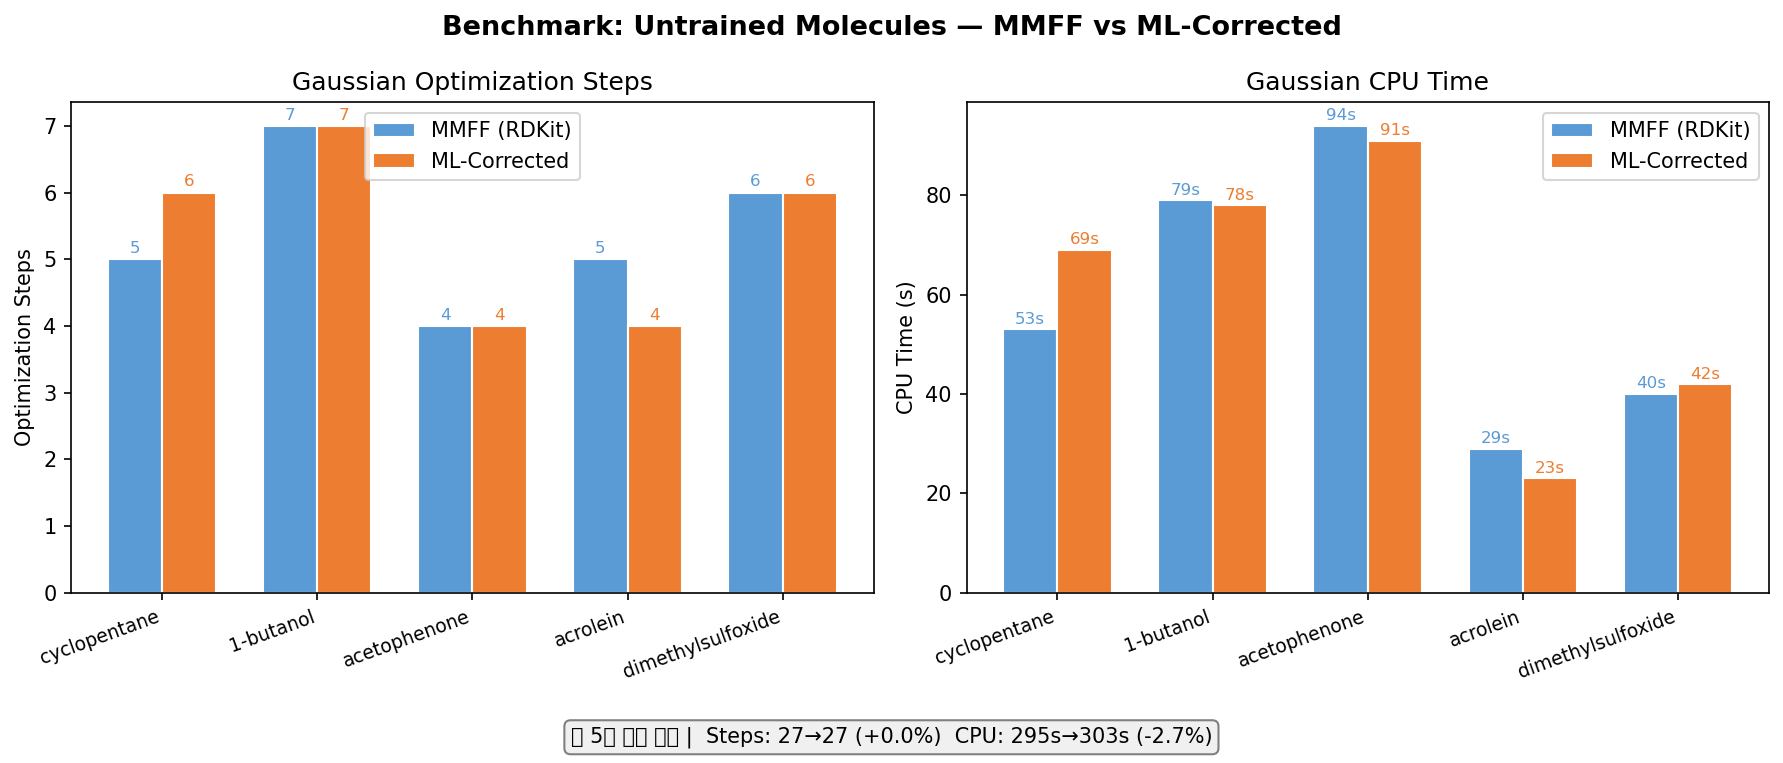
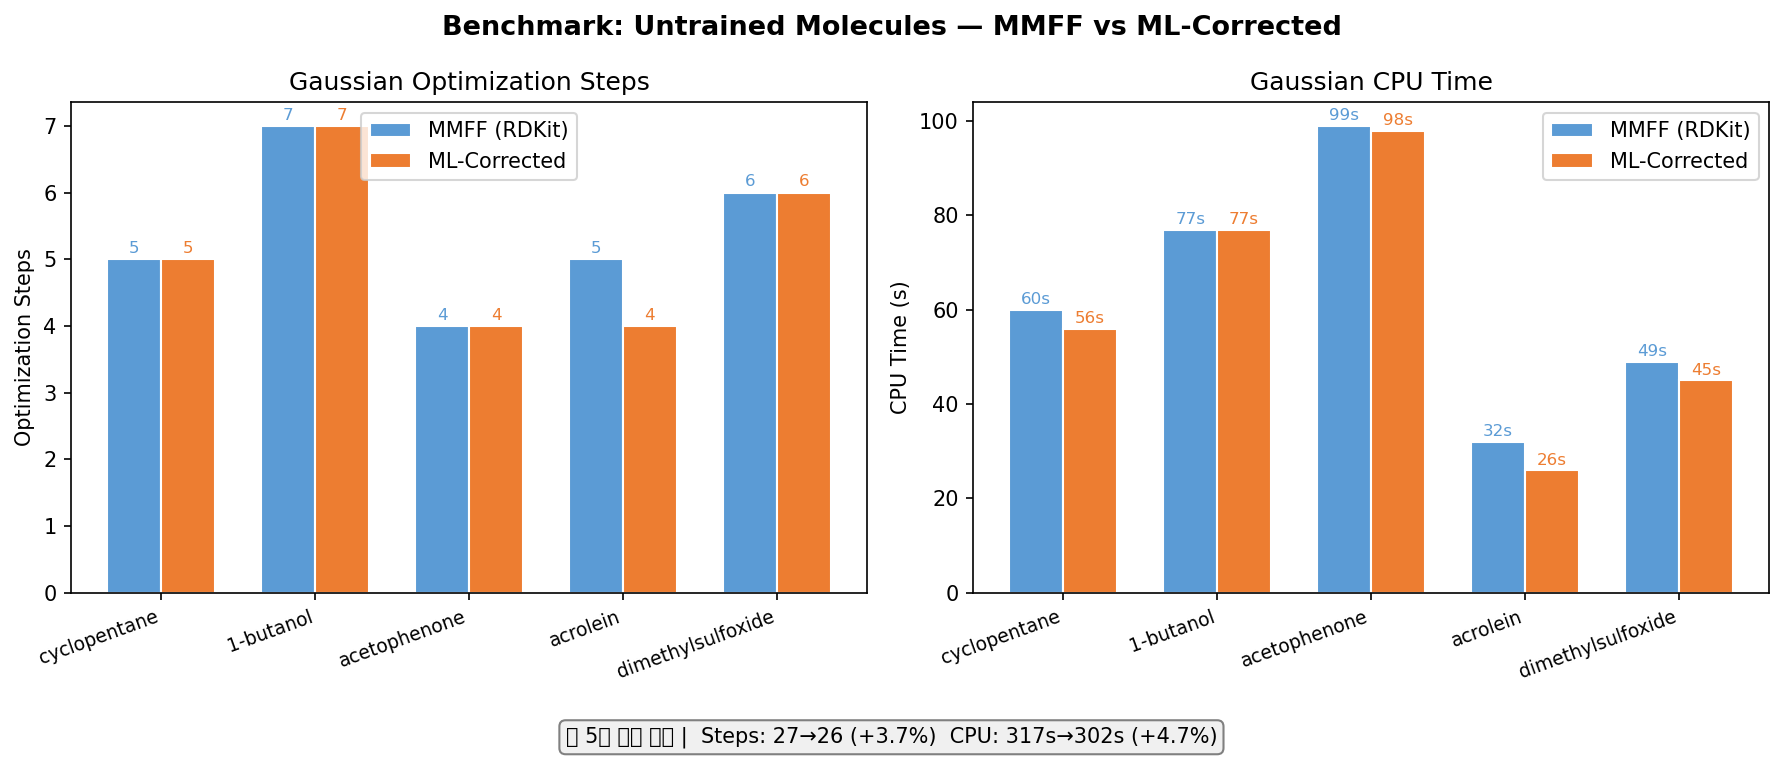
docs: update benchmark results with delta model — cyclopentane degradation resolved
- benchmark_new_mols re-run with delta mode model
- cyclopentane: steps 5→5 (0%), previously 5→6 (−1, worsened) with absolute model
- acrolein: maintains +20% step / +19% CPU improvement
- DMSO, cyclopentane: CPU time improvement (+8%, +7%)
- README: update benchmark table with CPU column, note delta model improvement

diff --git a/README.md b/README.md
@@ -180,13 +180,17 @@ Delta 모드에서 `mmff_length` 중요도가 81.3%로 낮아지고, `bond_order
 
 ![New Molecules Benchmark](figures/07_benchmark_new_mols.png)
 
-| 분자 | 작용기 | MMFF steps | ML steps | 변화 |
-|------|--------|-----------|---------|------|
-| cyclopentane | 5원 고리 | 5 | 6 | −1 (악화) |
-| 1-butanol | 긴 사슬 알코올 | 7 | 7 | 0 |
-| acetophenone | 방향족 케톤 | 4 | 4 | 0 |
-| acrolein | 공액 카보닐 | 5 | **4** | **+20%** |
-| dimethylsulfoxide | S=O 결합 | 6 | 6 | 0 |
+Delta 모드 모델로 재측정 (이전 absolute 모델 결과와 비교):
+
+| 분자 | 작용기 | MMFF steps | ML steps | 스텝 변화 | CPU 변화 |
+|------|--------|-----------|---------|---------|---------|
+| cyclopentane | 5원 고리 | 5 | 5 | 0 *(이전: −1 악화)* | **+7%** |
+| 1-butanol | 긴 사슬 알코올 | 7 | 7 | 0 | 0% |
+| acetophenone | 방향족 케톤 | 4 | 4 | 0 | +1% |
+| acrolein | 공액 카보닐 | 5 | **4** | **+20%** | **+19%** |
+| dimethylsulfoxide | S=O 결합 | 6 | 6 | 0 | **+8%** |
+
+Delta 모드에서 cyclopentane의 스텝 악화가 해소되었다. 보정값을 더 보수적으로 예측하여 5원 고리의 기하 왜곡이 줄어든 결과로 해석된다.
 
 ---
 
@@ -194,7 +198,7 @@ Delta 모드에서 `mmff_length` 중요도가 81.3%로 낮아지고, `bond_order
 
 ### 현재 한계
 
-1. **Feature 과의존**: `mmff_length` feature가 importance의 98.5%를 차지하여 사실상 선형 스케일링. 비선형 전자적 효과(공명, 전기음성도)를 학습하려면 수천 개 결합 데이터가 필요.
+1. **Feature 과의존**: Delta 모드 도입 후 `mmff_length` importance가 98.3% → 81.3%로 감소하였으나, 여전히 지배적이다. 비선형 전자적 효과(공명, 전기음성도)를 충분히 학습하려면 수천 개 결합 데이터가 필요.
 
 2. **단순한 feature**: 현재 feature는 국소적(local)이며 분자 전체의 전자 구조를 반영하지 못함. 이웃 원자 환경, 부분 전하, 공명 구조 등의 전역적 feature 추가가 필요.
 
